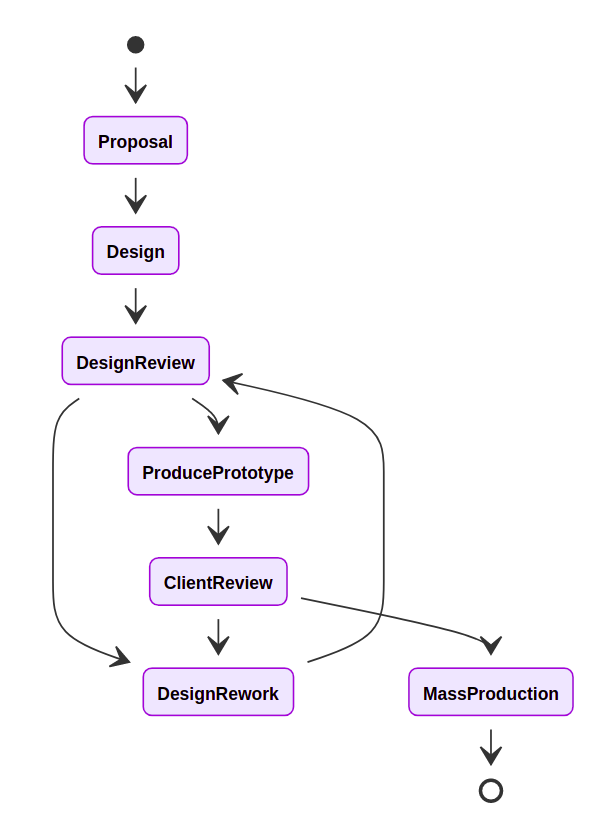
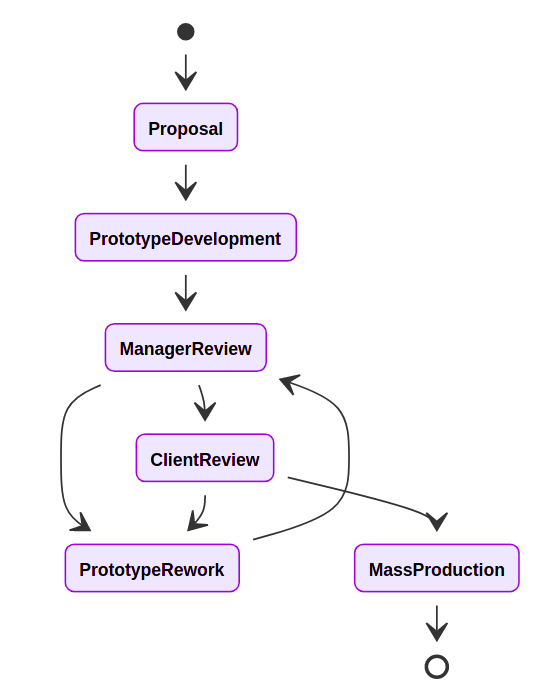
update state diagram

diff --git a/README.md b/README.md
@@ -22,17 +22,17 @@ A factory produces kids toys. the process of production depending on **getting a
 
 ## Project State Diagram
 
+
 ```mermaid
 stateDiagram
     [*] --> Proposal
-    Proposal --> Design
-    Design --> DesignReview
-    DesignReview --> DesignRework
-    DesignReview --> ProducePrototype
-    DesignRework --> DesignReview
-    ProducePrototype --> ClientReview
+    Proposal --> PrototypeDevelopment
+    PrototypeDevelopment--> ManagerReview
+    ManagerReview --> PrototypeRework
+    ManagerReview --> ClientReview
+    PrototypeRework --> ManagerReview
     ClientReview --> MassProduction
-    ClientReview --> DesignRework
+    ClientReview --> PrototypeRework
     MassProduction--> [*]
 ```
 
